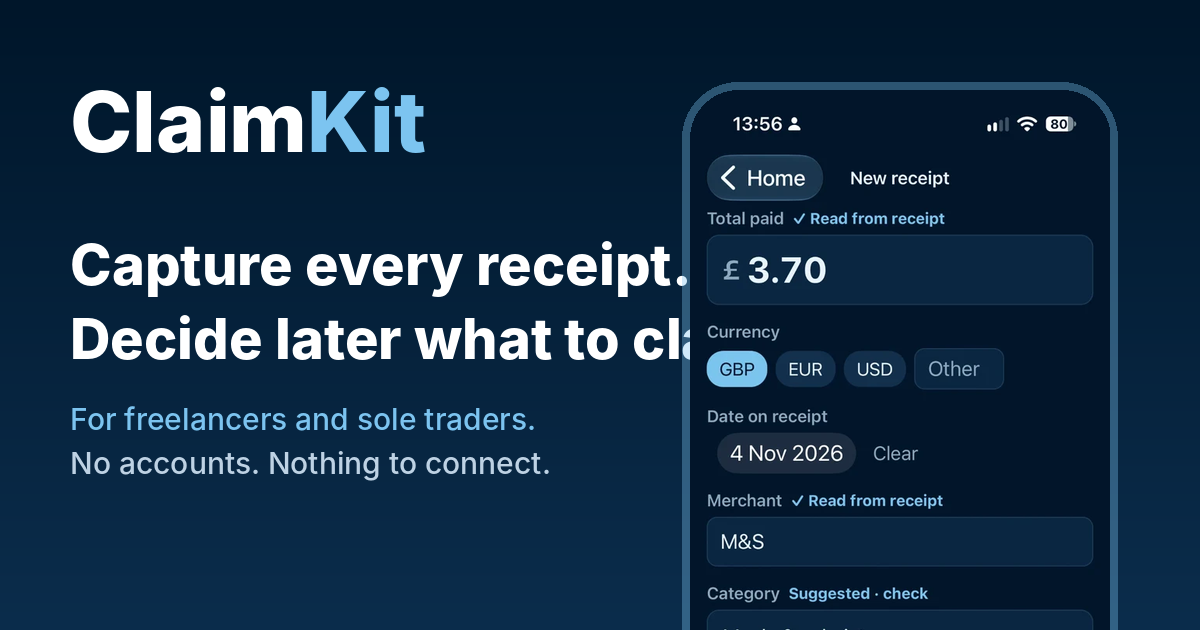
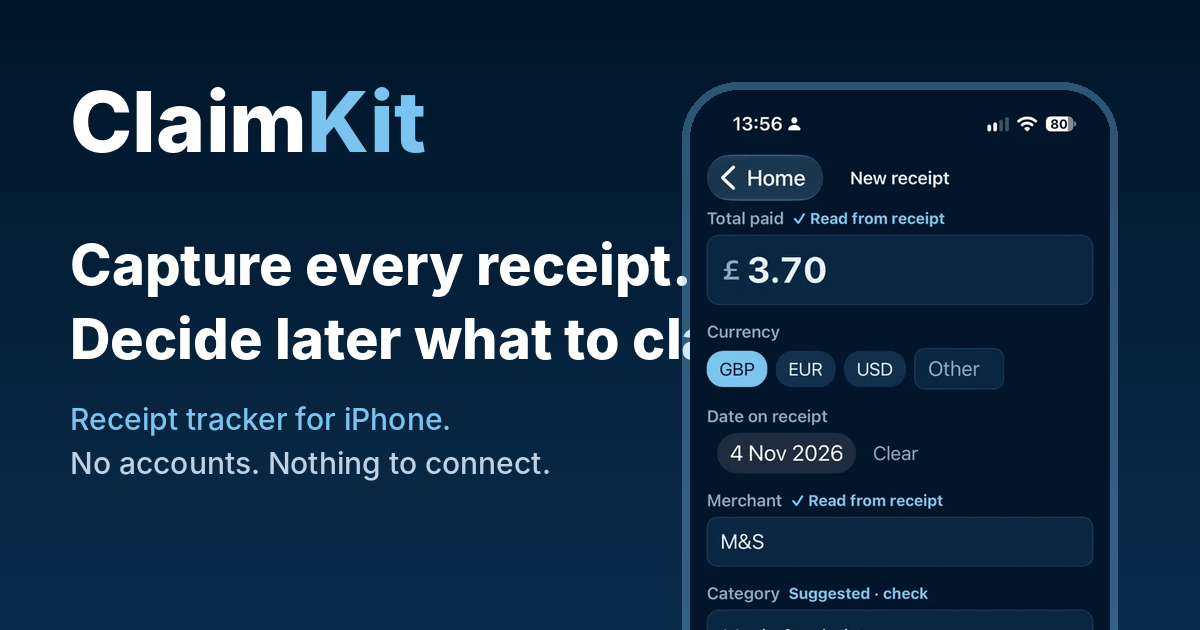
Website: generic wording (no audience), new share image, new title; stylesheet v5
Claude-Session: https://claude.ai/code/session_01SivDtSVAvt3MGnK75Gy8rP

Changed region(s): [[0.0617, 0.6333, 0.4625, 0.6937]]

diff --git a/index.html b/index.html
@@ -3,28 +3,28 @@
 <head>
 <meta charset="utf-8">
 <meta name="viewport" content="width=device-width, initial-scale=1">
-<title>ClaimKit: receipts and expense packs for freelancers and sole traders</title>
-<meta name="description" content="Capture every receipt on your iPhone and decide later what to claim. No accounts, nothing to connect, and your receipts stay on your phone. Built for freelancers and sole traders.">
+<title>ClaimKit: receipt tracker and expense packs for iPhone</title>
+<meta name="description" content="Capture every receipt on your iPhone and decide later what to claim. No accounts, nothing to connect, and your receipts stay on your phone.">
 <link rel="canonical" href="https://sitexuk.github.io/claimkit/">
 <meta property="og:type" content="website">
 <meta property="og:site_name" content="ClaimKit">
 <meta property="og:title" content="ClaimKit: capture every receipt, decide later what to claim">
-<meta property="og:description" content="For freelancers and sole traders. Snap a receipt, check the details, and build an expense pack when you need one. No accounts, nothing to connect.">
+<meta property="og:description" content="Snap a receipt, check the details, and build an expense pack when you need one. No accounts, nothing to connect.">
 <meta property="og:url" content="https://sitexuk.github.io/claimkit/">
-<meta property="og:image" content="https://sitexuk.github.io/claimkit/share.png">
+<meta property="og:image" content="https://sitexuk.github.io/claimkit/share.png?v=2">
 <meta property="og:image:width" content="1200">
 <meta property="og:image:height" content="630">
 <meta property="og:image:alt" content="ClaimKit: capture every receipt, decide later what to claim">
 <meta name="twitter:card" content="summary_large_image">
 <meta name="twitter:title" content="ClaimKit: capture every receipt, decide later what to claim">
-<meta name="twitter:description" content="For freelancers and sole traders. No accounts, nothing to connect.">
-<meta name="twitter:image" content="https://sitexuk.github.io/claimkit/share.png">
+<meta name="twitter:description" content="Snap a receipt, check the details, build an expense pack. No accounts, nothing to connect.">
+<meta name="twitter:image" content="https://sitexuk.github.io/claimkit/share.png?v=2">
 <meta name="theme-color" content="#00162a">
 <link rel="icon" type="image/png" href="favicon.png">
 <link rel="apple-touch-icon" href="apple-touch-icon.png">
-<link rel="stylesheet" href="style.css?v=4">
+<link rel="stylesheet" href="style.css?v=5">
 <script type="application/ld+json">
-{"@context":"https://schema.org","@type":"SoftwareApplication","name":"ClaimKit","operatingSystem":"iOS","applicationCategory":"BusinessApplication","description":"Capture receipts on your iPhone and build expense packs for claims. For freelancers and sole traders.","offers":{"@type":"Offer","price":"5.99","priceCurrency":"GBP"}}
+{"@context":"https://schema.org","@type":"SoftwareApplication","name":"ClaimKit","operatingSystem":"iOS","applicationCategory":"BusinessApplication","description":"Capture receipts on your iPhone and build expense packs for claims. No accounts, nothing to connect.","offers":{"@type":"Offer","price":"5.99","priceCurrency":"GBP"}}
 </script>
 </head>
 <body class="home">
@@ -36,7 +36,7 @@
 
 <section class="hero2">
   <div class="hero2-text">
-    <p class="eyebrow">For freelancers and sole traders</p>
+    <p class="eyebrow">Receipt tracker for iPhone</p>
     <h1>Capture every receipt.<br>Decide later what to claim.</h1>
     <p class="lead">Snap a receipt, check the details, and build an expense pack when you need one. No accounts to make, no software to connect, and your receipts stay on your iPhone.</p>
     <div class="cta">
@@ -81,9 +81,9 @@
 <section aria-labelledby="who">
   <h2 id="who">Who it&rsquo;s for</h2>
   <ul class="ticks">
-    <li>Freelancers, contractors and sole traders who keep their own expenses</li>
-    <li>Anyone who dreads the shoebox of receipts before their Self Assessment return</li>
-    <li>People who claim expenses back from a client or employer and want a clean pack to send</li>
+    <li>Anyone who keeps their own receipts and wants them ready when they need them</li>
+    <li>People who claim expenses back from an employer or a client and want a clean pack to send</li>
+    <li>Anyone who dreads the shoebox of receipts at the end of the year</li>
   </ul>
   <p class="muted">ClaimKit helps you keep and organise your receipts. It isn&rsquo;t tax or accounting advice.</p>
 </section>

diff --git a/privacy.html b/privacy.html
@@ -7,7 +7,7 @@
 <meta name="description" content="How ClaimKit handles your data.">
 <link rel="icon" type="image/png" href="favicon.png">
 <link rel="apple-touch-icon" href="apple-touch-icon.png">
-<link rel="stylesheet" href="style.css?v=4">
+<link rel="stylesheet" href="style.css?v=5">
 </head>
 <body>
 <header class="hero"><h1>Claim<span>Kit</span></h1><p>Privacy policy</p></header>

diff --git a/terms.html b/terms.html
@@ -7,7 +7,7 @@
 <meta name="description" content="Terms of use for ClaimKit.">
 <link rel="icon" type="image/png" href="favicon.png">
 <link rel="apple-touch-icon" href="apple-touch-icon.png">
-<link rel="stylesheet" href="style.css?v=4">
+<link rel="stylesheet" href="style.css?v=5">
 </head>
 <body>
 <header class="hero"><h1>Claim<span>Kit</span></h1><p>Terms of use</p></header>

diff --git a/support.html b/support.html
@@ -7,7 +7,7 @@
 <meta name="description" content="Help with ClaimKit.">
 <link rel="icon" type="image/png" href="favicon.png">
 <link rel="apple-touch-icon" href="apple-touch-icon.png">
-<link rel="stylesheet" href="style.css?v=4">
+<link rel="stylesheet" href="style.css?v=5">
 </head>
 <body>
 <header class="hero"><h1>Claim<span>Kit</span></h1><p>Help and answers</p></header>
